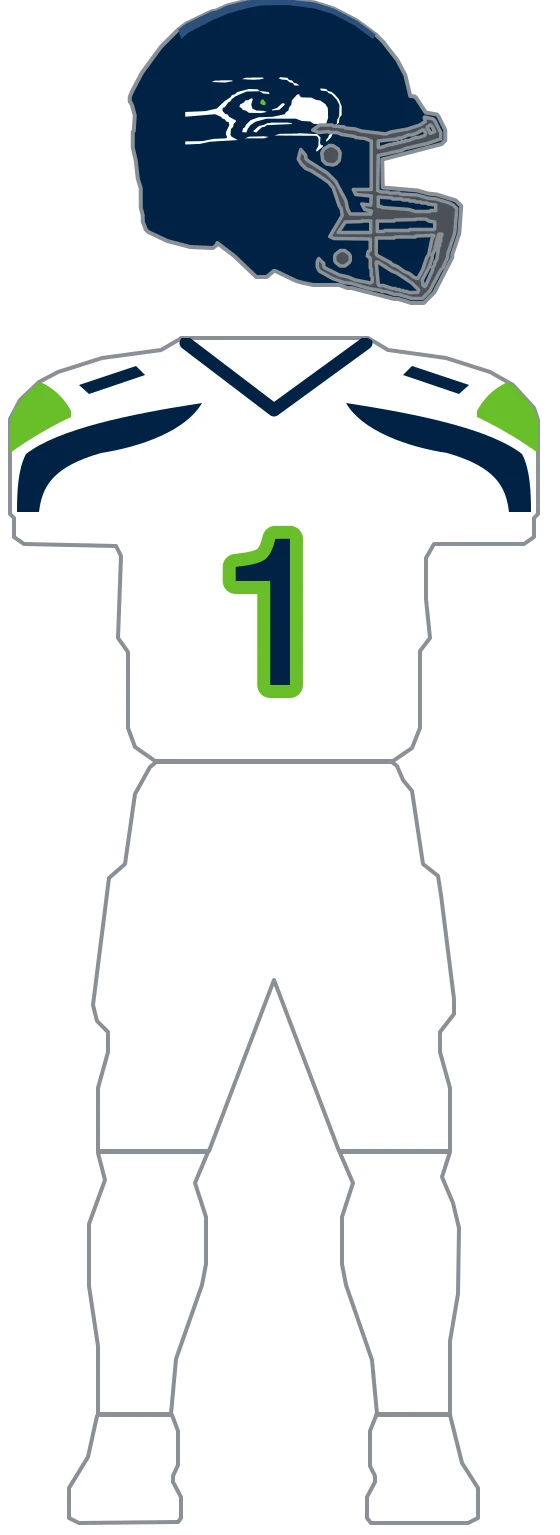
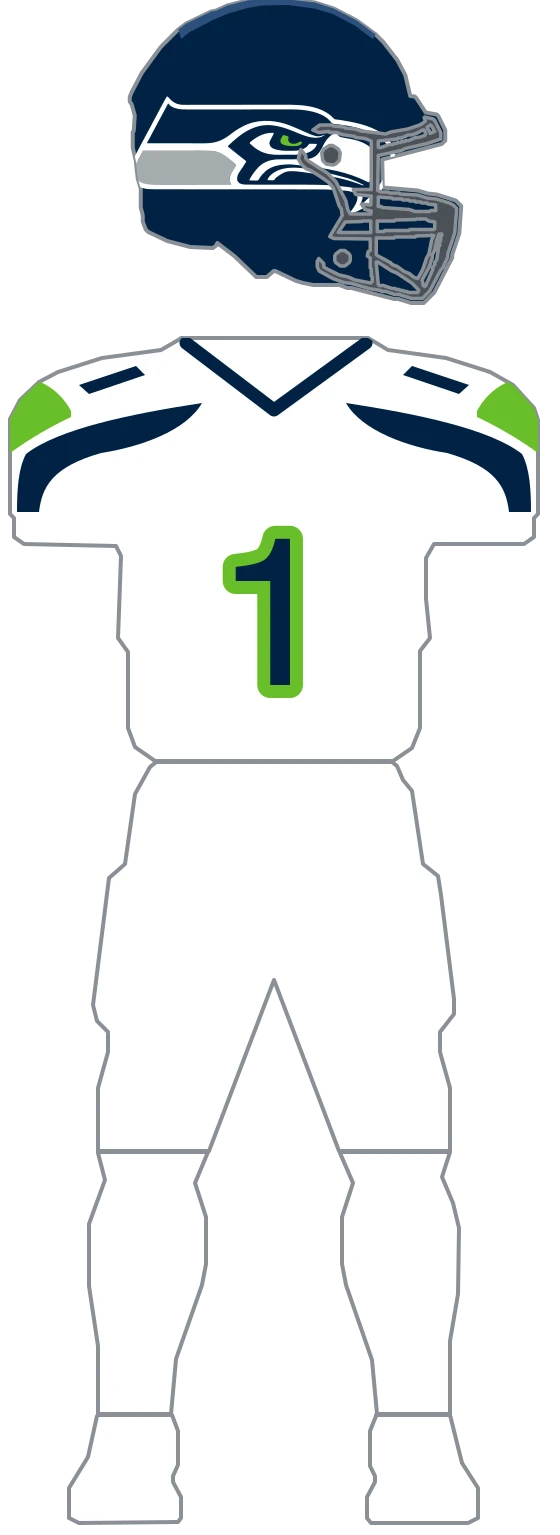
feat(uniforms): re-author the Seahawks helmet decal from a gate-passing reference
The shipped decal was traced off the 46px GUD composite, where the hawk's white
keyline survives as 7 disconnected fragments totalling 31px. At helmet scale it
read as a field of slivers, and it was also placed wrong: half the size the
reference shows, centred instead of running to the rear edge, and missing the
wolf-grey wing entirely.

Re-traced at 1200px (thinnest white channel 20px = 1.67% of mark width; keyline
resolves to one component and holds under a 0.75x downscale), then scaled,
positioned and baked into raw helmet coordinates -- UniformLayer has no
transform field, so placement cannot live anywhere but the path data.

Placement is measured from the GUD helmet composite rather than the logo, which
is a separate failure axis from linework: 80% of shell width, flush to the rear
edge, 32% down, no rotation. A 0/-8/-15 degree sweep against the reference
picked 0 -- the mark reads as angled because of its own swept tail.

Three rasters change (home, away, rivalries -- full variant only; the jersey
crop excludes the helmet). Installed iOS builds fetch by URL and pick this up,
which is intended: accuracy is the bar (Decisions.md 2026-09-03).

Changed region(s): [[0.2429, 0.0306, 0.6679, 0.1531]]

diff --git a/lib/uniforms/teams/seahawks.ts b/lib/uniforms/teams/seahawks.ts
@@ -30,13 +30,32 @@ export const SEAHAWKS_HELMET_CENTER_COLOR = '#2B507C';
 // (Wikimedia `File:Seattle Seahawks logo.svg`, fair use; trademarked). Licence audit: the vault’s
 // Decisions.md, 2026-09-03.
 //
-// Produced by contour-tracing the decal's white keyline (upsampled 10x, Douglas-Peucker simplified)
-// and mapping it into raw helmet coordinates. The keyline is filled white and the shell reads
-// through the counters, which is why no navy backing shape is needed on the navy home/away shells.
+// Re-authored 2026-09-03 from a reference that clears the resolution gate, replacing a trace off
+// the 46px GUD composite whose keyline survived as 7 disconnected fragments totalling 31px. The
+// mark is traced at 1200px wide (thinnest white channel 20px = 1.67% of mark width; keyline
+// resolves to one component and holds under a 0.75x downscale), then scaled, positioned and
+// baked into raw helmet coordinates -- UniformLayer has no transform field, so placement cannot
+// live anywhere but the path data.
+//
+// PLACEMENT is measured from the GUD *helmet* composite, not from the logo, and is a separate
+// concern from linework: 80% of shell width, flush to the rear edge, 32% down, no rotation. The
+// mark reads as angled because of its own swept tail, not because a rotation is applied -- a
+// 0/-8/-15 degree sweep against the reference picked 0. Verified side by side against the helmet
+// reference, which is the acceptance check; matching the logo alone is what made the first pass
+// well-drawn and misplaced.
+//
+// Three layers now, painted grey -> white -> eye. The grey wing was MISSING from the previous
+// decal entirely: only the white channels and the eye were traced, so the mark lost the element
+// the reference puts at the lower rear. The navy body is still not painted -- it merges with the
+// navy shell, which is why the counters read through. That is correct for home and away and is a
+// known gap on the teal rivalries shell, tracked separately.
 export const SEAHAWKS_HELMET_HAWK_PATH =
-  'M439.9,222.4 L454.0,223.5 L457.2,227.5 L464.3,229.2 L467.0,233.6 L472.4,234.8 L478.3,238.7 L470.2,239.2 L467.5,238.1 L465.4,234.2 L458.3,232.5 L453.5,228.0 L442.1,226.9 L436.1,224.1 L439.9,223.0 Z M381.5,223.0 L404.8,223.0 L407.5,224.7 L398.8,226.9 L385.3,227.5 L363.6,226.3 L370.7,223.5 L381.5,223.5 Z M319.8,228.6 L342.5,228.6 L345.8,230.3 L330.1,233.1 L302.5,232.0 L309.5,229.2 L319.8,229.2 Z M520.5,244.8 L531.9,246.0 L535.2,249.9 L542.2,251.6 L549.2,257.2 L557.3,266.7 L562.8,280.7 L562.8,298.1 L558.4,303.7 L557.3,313.8 L553.0,316.6 L551.9,325.6 L548.1,328.4 L541.7,342.4 L533.5,350.8 L531.4,350.8 L532.5,346.3 L535.7,343.5 L537.3,338.5 L542.2,334.5 L549.8,317.7 L553.0,316.0 L554.1,307.1 L557.9,300.3 L558.4,277.9 L553.0,267.3 L542.2,256.1 L536.8,254.4 L533.5,250.5 L522.7,249.3 L520.0,247.7 L520.5,245.4 Z M375.5,246.0 L394.5,246.5 L398.8,249.9 L416.7,252.1 L418.8,256.1 L405.3,254.9 L399.3,250.5 L372.8,251.0 L350.6,260.5 L343.1,266.2 L339.8,271.2 L336.6,272.3 L329.0,282.4 L324.7,284.1 L324.7,290.3 L330.1,295.9 L335.0,297.0 L337.7,301.5 L351.2,308.8 L351.2,311.6 L346.9,315.5 L345.8,321.7 L341.4,326.1 L340.4,337.3 L342.5,341.3 L355.0,348.0 L299.8,351.4 L279.2,355.8 L250.0,357.0 L250.0,350.8 L284.1,350.2 L306.8,345.8 L331.7,344.6 L333.9,342.4 L331.2,336.2 L331.7,331.7 L338.2,318.3 L337.1,312.7 L332.2,311.0 L329.0,306.5 L324.7,305.4 L322.0,302.0 L309.5,296.4 L250.0,301.5 L250.0,291.9 L289.5,290.3 L312.8,285.2 L329.0,270.1 L340.9,262.2 L343.1,258.3 L349.0,256.6 L353.9,252.1 L375.5,246.5 Z M475.1,256.6 L477.8,256.6 L479.4,260.5 L482.7,262.8 L502.2,263.3 L511.9,267.8 L520.0,269.0 L530.3,276.2 L535.2,284.1 L535.7,303.7 L529.7,321.7 L523.8,321.7 L517.8,316.6 L506.5,315.5 L500.0,311.0 L483.2,309.9 L471.3,305.4 L412.3,305.4 L390.1,311.6 L380.4,318.3 L375.0,325.6 L372.3,332.9 L363.6,332.3 L365.8,324.5 L369.6,322.2 L371.2,317.7 L380.9,308.2 L396.6,302.6 L425.3,301.5 L449.1,296.4 L451.3,292.5 L456.2,289.1 L457.8,283.0 L462.1,277.4 L463.2,269.0 L473.5,257.2 L475.1,257.2 Z M381.5,264.5 L385.3,265.6 L382.0,276.8 L384.2,285.2 L392.3,289.1 L406.9,289.7 L413.4,291.9 L401.5,294.2 L377.2,293.6 L371.2,289.1 L365.3,288.0 L362.5,284.1 L358.2,281.8 L359.8,276.8 L367.4,272.9 L370.1,269.0 L375.5,268.4 L381.5,265.0 Z M443.2,274.6 L448.0,274.6 L449.1,277.4 L438.3,287.5 L423.7,289.1 L424.2,286.9 L433.4,284.1 L443.2,275.1 Z M421.0,313.2 L455.6,313.2 L462.7,314.4 L463.7,316.0 L413.4,318.3 L408.5,321.7 L402.6,322.8 L392.3,332.9 L386.4,331.7 L386.9,329.5 L397.2,320.0 L407.5,317.7 L414.0,314.4 L421.0,313.8 Z M476.2,334.5 L514.1,336.2 L520.5,343.0 L519.5,354.2 L521.6,358.1 L525.4,358.7 L524.9,361.5 L513.5,371.0 L511.9,370.4 L511.9,367.6 L516.2,360.3 L516.8,346.9 L515.1,341.8 L511.3,339.6 L428.6,339.0 L438.3,335.7 L476.2,335.1 Z M404.2,340.2 L416.7,341.8 L408.5,344.6 L369.6,344.6 L377.7,341.3 L404.2,340.7 Z';
+  'M213.3,260.8C214.8,261.1 215.3,261.4 216.3,262.6C223.6,271.3 230.8,276.3 242.3,277.5C245.7,277.7 249.1,277.7 252.5,277.7C253.4,277.7 254.3,277.7 255.2,277.7C257.7,277.7 260.2,277.7 262.7,277.6C265.3,277.6 268.0,277.6 270.7,277.6C275.4,277.6 280.0,277.6 284.7,277.6C291.4,277.6 298.1,277.6 304.9,277.6C308.0,277.6 311.2,277.6 314.3,277.6C314.6,277.6 314.9,277.6 315.3,277.6C322.8,277.6 330.3,277.6 337.7,277.6C337.9,277.6 337.9,277.6 338.7,277.6C344.4,277.6 350.0,277.6 355.7,277.6C360.3,277.6 364.9,277.5 369.6,277.5C369.9,277.5 370.2,277.5 370.5,277.5C378.0,277.5 385.5,277.5 392.9,277.5C393.2,277.5 393.6,277.5 393.9,277.5C397.0,277.5 400.2,277.5 403.3,277.5C410.0,277.5 416.8,277.5 423.5,277.5C428.4,277.5 433.3,277.5 438.2,277.5C440.9,277.5 443.5,277.5 446.2,277.5C455.6,277.4 464.9,277.4 474.3,278.0C474.6,278.0 474.9,278.0 475.3,278.0C492.5,279.0 510.1,281.8 525.8,289.5C526.0,289.6 526.3,289.8 526.6,289.9C533.7,293.4 540.7,298.0 545.9,304.0C547.7,306.0 549.2,306.8 551.9,307.0C552.7,307.1 553.5,307.2 554.2,307.3C554.7,307.3 555.1,307.4 555.6,307.4C558.7,307.8 561.8,308.3 565.0,308.8C565.3,308.9 565.7,308.9 566.0,309.0C595.3,313.8 629.3,321.1 651.7,341.6C652.1,342.0 652.6,342.4 653.0,342.8C663.3,352.6 668.8,365.5 669.4,379.7C670.0,410.3 651.8,437.9 632.3,460.1C632.0,460.4 631.7,460.8 631.4,461.1C628.7,464.2 625.8,467.1 622.9,470.0C622.8,470.1 622.8,470.1 622.2,470.8C618.7,474.3 615.1,477.6 611.1,480.4C610.7,480.7 610.3,481.0 609.9,481.3C600.5,488.4 590.5,493.2 578.8,494.6C579.8,492.6 581.0,490.9 582.4,489.2C587.5,482.4 594.4,472.2 594.4,463.4C594.4,462.9 594.4,462.3 594.4,461.7C594.1,458.9 592.9,457.0 590.7,455.2C580.8,448.3 561.7,449.1 550.0,448.1C549.6,448.0 549.2,448.0 548.7,448.0C547.5,447.8 546.3,447.7 545.1,447.6C544.9,447.6 544.9,447.6 544.0,447.6C535.5,446.9 526.9,446.8 518.3,446.8C516.6,446.8 514.8,446.8 513.0,446.8C509.9,446.8 506.8,446.8 503.7,446.8C499.1,446.8 494.4,446.8 489.8,446.8C482.0,446.8 474.3,446.7 466.5,446.7C455.4,446.7 444.3,446.7 433.1,446.7C428.7,446.7 424.2,446.7 419.7,446.7C419.5,446.7 419.5,446.7 418.2,446.7C406.4,446.7 394.6,446.7 382.8,446.7C382.6,446.7 382.6,446.7 381.3,446.7C369.2,446.7 357.2,446.7 345.2,446.6C344.7,446.6 344.1,446.6 343.6,446.6C341.0,446.6 338.4,446.6 335.8,446.6C335.3,446.6 334.7,446.6 334.2,446.6C333.2,446.6 332.1,446.6 331.1,446.6C313.9,446.6 296.6,446.6 279.4,446.6C277.0,446.6 274.5,446.6 272.1,446.6C271.6,446.6 271.2,446.6 270.7,446.6C263.0,446.6 255.3,446.6 247.6,446.6C239.8,446.6 232.1,446.6 224.4,446.5C219.8,446.5 215.2,446.5 210.6,446.5C207.5,446.5 204.5,446.5 201.4,446.5C199.6,446.5 197.9,446.5 196.1,446.5C174.5,446.5 174.5,446.5 165.5,444.2C165.2,444.1 165.0,444.0 164.7,444.0C155.5,441.6 148.3,436.7 143.4,428.4C138.5,419.7 138.1,410.9 140.7,401.4C142.7,394.5 145.6,387.9 148.7,381.4C148.8,381.2 148.8,381.2 149.3,380.3C151.5,375.7 153.8,371.3 156.2,366.9C158.3,363.1 160.3,359.3 162.3,355.5C164.8,350.9 167.3,346.2 169.7,341.6C172.1,337.2 174.5,332.8 176.8,328.4C179.4,323.5 182.0,318.5 184.7,313.6C186.1,310.9 187.6,308.1 189.1,305.4C189.2,305.1 189.4,304.8 189.6,304.5C190.2,303.2 190.9,302.0 191.5,300.8C193.7,296.7 195.9,292.6 198.1,288.5C199.7,285.7 201.2,282.9 202.6,280.0C204.4,276.5 206.3,273.1 208.1,269.7C208.3,269.3 208.5,268.9 208.8,268.5C210.2,265.9 211.7,263.3 213.3,260.8ZM215.5,275.4C215.3,275.8 215.0,276.2 214.8,276.6C207.7,290.1 207.7,290.1 204.9,295.2C202.6,299.3 200.4,303.5 198.2,307.6C195.8,312.2 193.4,316.7 191.0,321.2C189.0,324.7 187.1,328.3 185.2,331.8C182.8,336.4 180.4,340.9 178.0,345.5C177.7,346.0 177.4,346.4 177.2,346.9C176.9,347.4 176.7,347.8 176.5,348.3C176.4,348.4 176.4,348.4 175.8,349.4C175.4,350.2 175.0,350.9 174.5,351.6C173.9,352.7 173.9,352.7 173.9,354.5C189.6,354.5 205.2,354.5 220.9,354.5C222.7,354.5 224.6,354.5 226.4,354.5C226.8,354.5 227.2,354.5 227.6,354.5C233.5,354.5 239.5,354.5 245.4,354.5C251.5,354.5 257.7,354.5 263.8,354.6C267.6,354.6 271.3,354.6 275.1,354.6C277.7,354.6 280.3,354.6 282.9,354.6C284.4,354.6 285.9,354.6 287.4,354.6C308.9,354.6 322.5,350.4 339.6,337.3C347.5,331.2 355.9,325.4 364.9,320.9C365.2,320.7 365.5,320.5 365.8,320.4C391.7,306.9 422.3,307.2 449.7,315.6C460.2,318.9 470.2,323.4 480.2,327.8C513.6,342.7 513.6,342.7 528.3,337.6C528.5,337.6 528.5,337.6 529.3,337.2C525.1,341.7 518.6,343.2 512.6,343.5C499.3,343.7 487.5,339.2 475.4,334.2C472.6,333.1 469.8,331.9 467.1,330.8C466.8,330.7 466.5,330.6 466.1,330.4C445.0,321.9 421.4,314.6 398.5,320.0C398.3,320.0 398.3,320.0 397.3,320.3C391.3,321.7 385.5,323.9 379.9,326.6C379.5,326.8 379.2,326.9 378.8,327.1C370.3,331.2 362.5,336.6 355.1,342.5C354.8,342.8 354.4,343.1 354.0,343.4C347.6,348.4 341.5,354.0 335.7,359.8C335.7,360.4 335.7,360.9 335.7,361.5C336.6,362.4 337.4,363.0 338.3,363.7C338.9,364.2 339.5,364.6 340.1,365.0C340.4,365.2 340.7,365.5 341.0,365.7C342.5,366.9 343.9,368.1 345.4,369.3C347.6,371.1 349.8,372.8 352.0,374.6C354.3,376.3 356.5,378.1 358.7,379.9C363.0,383.4 367.4,386.9 371.9,390.3C371.6,391.8 371.0,392.9 370.2,394.2C369.9,394.6 369.6,395.1 369.3,395.5C369.0,396.0 368.7,396.4 368.4,396.9C368.1,397.4 367.8,397.9 367.5,398.4C365.8,401.1 364.0,403.7 362.3,406.3C362.2,406.4 362.2,406.4 361.7,407.1C360.9,408.4 360.0,409.7 359.1,410.9C355.3,416.7 353.3,420.9 353.8,427.8C354.5,430.6 356.4,432.8 358.7,434.5C363.7,437.3 369.7,437.3 375.3,437.2C375.9,437.2 376.6,437.2 377.2,437.2C378.9,437.3 380.6,437.3 382.3,437.2C384.2,437.2 386.1,437.3 387.9,437.3C391.2,437.3 394.4,437.3 397.6,437.3C402.3,437.3 407.0,437.3 411.6,437.3C419.3,437.3 426.9,437.3 434.5,437.3C435.0,437.3 435.4,437.3 435.9,437.3C439.1,437.3 442.4,437.3 445.6,437.3C449.2,437.3 452.9,437.4 456.6,437.4C457.0,437.4 457.5,437.4 457.9,437.4C465.5,437.4 473.1,437.4 480.7,437.4C484.9,437.4 489.2,437.4 493.4,437.4C521.5,437.4 549.2,438.2 577.0,442.3C577.9,442.4 578.7,442.5 579.5,442.7C587.4,443.8 596.7,445.4 602.0,452.0C604.8,456.3 605.0,461.1 604.2,466.1C603.3,469.6 601.8,472.7 600.0,475.8C599.5,476.6 599.1,477.4 598.7,478.2C598.8,478.5 599.0,478.8 599.1,479.1C602.0,477.1 604.7,475.0 607.3,472.6C608.2,471.8 609.1,471.0 610.0,470.2C612.3,468.2 614.5,466.1 616.6,463.9C617.0,463.5 617.4,463.1 617.8,462.7C620.1,460.4 622.2,458.1 624.3,455.7C624.7,455.3 625.1,454.8 625.4,454.4C629.1,450.1 632.5,445.6 635.8,441.1C636.0,440.8 636.2,440.5 636.5,440.2C649.9,421.9 663.3,399.2 660.1,375.7C658.2,362.8 651.1,352.0 640.7,344.2C617.6,327.7 586.3,320.5 558.5,317.1C558.1,317.1 557.6,317.0 557.2,316.9C555.0,316.7 552.8,316.4 550.7,316.2C549.9,316.1 549.1,316.0 548.3,315.9C547.9,315.9 547.6,315.8 547.2,315.8C543.9,315.4 542.3,313.5 540.4,310.9C526.6,294.3 501.3,289.5 481.1,287.6C474.2,286.9 467.2,286.8 460.2,286.8C459.3,286.8 458.4,286.8 457.4,286.8C454.9,286.8 452.4,286.8 449.9,286.8C447.1,286.8 444.4,286.8 441.7,286.8C437.0,286.8 432.2,286.8 427.5,286.8C420.4,286.8 413.2,286.8 406.1,286.8C403.2,286.8 400.3,286.8 397.5,286.8C397.1,286.8 396.8,286.8 396.5,286.8C388.9,286.8 381.3,286.9 373.7,286.9C373.4,286.9 373.1,286.9 372.7,286.9C365.0,286.9 357.3,286.9 349.5,286.9C349.2,286.9 348.9,286.9 348.5,286.9C346.8,286.9 345.2,286.9 343.5,286.9C343.1,286.9 342.8,286.9 342.5,286.9C341.8,286.9 341.1,286.9 340.5,286.9C329.4,286.9 318.3,286.9 307.2,286.9C305.7,286.9 304.1,286.9 302.5,286.9C302.2,286.9 301.9,286.9 301.6,286.9C296.6,286.9 291.7,286.9 286.8,286.9C281.8,286.9 276.8,286.9 271.8,286.9C269.1,286.9 266.4,286.9 263.8,286.9C261.3,286.9 258.8,286.9 256.4,286.9C255.5,286.9 254.6,286.9 253.7,286.9C242.1,287.0 229.0,286.4 219.4,278.9C218.7,278.0 218.0,277.0 217.3,276.0C217.2,275.9 217.2,275.9 216.8,275.4C216.4,275.4 215.9,275.4 215.5,275.4ZM165.5,369.5C164.7,371.1 163.8,372.6 163.0,374.2C162.7,374.6 162.5,375.0 162.2,375.5C145.6,406.0 145.6,406.0 149.1,418.9C151.3,425.2 154.8,429.6 160.7,432.7C168.3,436.3 176.6,436.7 184.9,436.9C185.3,436.9 185.6,436.9 186.0,437.0C193.2,437.2 200.5,437.2 207.7,437.2C209.5,437.2 211.3,437.2 213.2,437.2C216.3,437.2 219.4,437.2 222.5,437.2C227.0,437.2 231.5,437.2 236.0,437.2C243.3,437.2 250.7,437.2 258.0,437.2C265.1,437.2 272.2,437.1 279.3,437.1C279.7,437.1 280.2,437.1 280.6,437.1C282.8,437.1 285.0,437.1 287.2,437.1C305.4,437.1 323.7,437.1 341.9,437.1C341.9,435.4 341.2,434.5 340.3,433.0C338.5,429.4 338.2,426.4 339.1,422.5C341.0,416.4 344.5,410.8 347.8,405.4C348.0,405.2 348.0,405.2 348.6,404.2C349.1,403.5 349.5,402.7 350.0,402.0C350.2,401.6 350.5,401.3 350.7,400.9C350.8,400.8 350.8,400.8 351.2,400.0C351.7,398.8 351.6,398.1 351.2,396.9C350.3,396.0 349.4,395.2 348.4,394.4C348.1,394.2 347.9,394.0 347.6,393.7C345.2,391.8 342.8,389.8 340.4,388.0C339.0,386.9 337.7,385.9 336.4,384.8C324.7,375.3 315.2,370.2 299.8,369.7C299.7,369.7 299.7,369.7 298.9,369.7C292.3,369.5 285.8,369.4 279.2,369.4C277.9,369.4 276.7,369.4 275.4,369.4C272.8,369.4 270.1,369.4 267.4,369.4C263.6,369.5 259.7,369.5 255.9,369.5C249.6,369.5 243.4,369.5 237.1,369.5C231.1,369.5 225.0,369.5 219.0,369.5C218.6,369.5 218.2,369.5 217.8,369.5C215.9,369.5 214.1,369.5 212.2,369.5C196.6,369.5 181.1,369.5 165.5,369.5ZM558.9,330.6C558.4,331.8 557.7,332.8 556.9,333.8C556.0,335.0 555.8,335.5 555.5,337.1C555.9,339.0 556.4,339.6 558.0,340.8C561.4,342.8 565.3,343.2 569.1,343.8C589.0,347.0 612.8,352.0 625.7,368.9C632.0,378.6 633.5,389.2 631.4,400.4C629.6,408.8 626.5,416.5 622.7,424.2C622.5,424.6 622.3,425.0 622.1,425.4C620.8,427.9 619.3,430.3 617.7,432.7C616.0,432.4 614.7,431.9 613.1,431.2C612.7,431.0 612.2,430.7 611.8,430.5C611.3,430.3 610.8,430.0 610.3,429.8C576.6,413.4 539.3,404.0 461.5,396.8C461.0,396.8 460.6,396.8 460.2,396.8C442.6,396.8 423.5,398.6 409.9,411.0C409.7,411.2 409.5,411.4 409.3,411.7C405.7,414.9 402.7,418.5 399.8,422.4C399.7,422.6 399.7,422.6 399.1,423.3C398.5,424.3 398.5,424.3 397.9,425.5C397.2,426.9 396.6,427.7 395.4,428.7C392.5,429.5 389.5,429.1 386.5,429.0C385.7,429.0 384.9,429.0 384.1,428.9C382.1,428.9 380.1,428.8 378.1,428.7C378.5,427.0 379.3,425.6 380.1,424.1C380.3,423.8 380.5,423.5 380.6,423.3C384.9,416.0 389.9,409.2 395.8,403.1C396.1,402.8 396.3,402.5 396.6,402.2C406.5,391.7 421.1,387.1 435.2,386.7C436.7,386.7 438.2,386.7 439.7,386.7C440.6,386.7 441.5,386.7 442.3,386.7C443.2,386.7 444.2,386.6 445.1,386.6C447.0,386.6 449.0,386.6 450.9,386.6C456.4,386.6 461.9,386.6 467.4,386.6C470.4,386.5 473.5,386.5 476.5,386.5C478.1,386.5 479.7,386.5 481.3,386.5C493.5,386.5 504.9,386.3 514.1,377.3C519.3,371.9 522.9,365.1 526.2,358.4C532.5,345.7 541.9,335.8 555.5,331.0C557.1,330.6 557.1,330.6 558.9,330.6ZM423.6,333.7C424.0,333.7 424.3,333.7 424.7,333.7C425.5,333.7 426.4,333.7 427.2,333.7C426.9,335.6 426.2,337.1 425.3,338.8C425.0,339.3 424.7,339.9 424.4,340.4C423.9,341.3 423.5,342.2 423.0,343.0C417.7,353.0 417.7,353.0 419.1,358.1C420.3,361.3 422.3,363.2 425.3,364.8C430.7,367.3 436.7,368.4 442.7,369.1C442.8,369.1 442.8,369.1 443.7,369.2C448.5,369.6 453.2,369.6 458.0,369.6C459.5,369.6 461.0,369.6 462.5,369.6C473.4,369.7 485.1,368.7 493.6,361.0C494.9,359.6 496.0,358.2 497.1,356.7C497.9,355.8 497.9,355.8 499.2,355.4C500.1,355.4 500.1,355.4 501.2,355.5C503.7,355.8 506.2,355.8 508.8,355.8C509.2,355.8 509.7,355.8 510.1,355.8C511.2,355.8 512.3,355.8 513.4,355.8C512.4,361.2 508.1,365.8 503.8,368.9C493.6,375.6 482.0,377.5 470.0,377.5C469.5,377.5 469.1,377.5 468.6,377.5C467.1,377.5 465.6,377.5 464.1,377.5C463.0,377.5 462.0,377.5 460.9,377.5C458.7,377.5 456.5,377.5 454.3,377.5C451.4,377.5 448.6,377.5 445.8,377.5C443.6,377.6 441.4,377.6 439.2,377.6C438.2,377.6 437.2,377.6 436.1,377.6C414.7,377.6 398.2,372.9 382.4,357.8C381.3,356.8 380.2,355.8 379.0,354.9C379.1,353.5 379.3,352.8 380.3,351.8C381.7,350.7 383.0,349.7 384.3,348.7C384.5,348.5 384.8,348.4 385.0,348.2C396.1,339.8 409.5,333.5 423.6,333.7ZM575.3,424.4C576.1,424.7 576.9,425.0 577.8,425.3C588.0,428.9 598.1,433.1 607.5,438.4C605.9,439.0 605.0,438.7 603.4,438.1C602.9,437.9 602.4,437.8 601.9,437.6C601.4,437.4 600.8,437.2 600.3,437.0C599.2,436.6 598.0,436.2 596.9,435.7C596.6,435.6 596.3,435.5 596.0,435.4C574.0,427.4 551.0,422.1 528.0,418.6C527.7,418.5 527.3,418.5 527.0,418.4C454.9,407.2 454.9,407.2 434.9,420.8C430.2,424.3 430.2,424.3 429.5,426.0C428.9,427.0 428.6,427.6 427.6,428.3C425.4,428.7 423.1,428.6 420.9,428.5C420.2,428.5 419.6,428.4 419.0,428.4C417.4,428.4 415.9,428.3 414.4,428.3C415.8,421.9 422.9,416.0 428.1,412.6C458.1,394.0 508.0,406.3 575.3,424.4Z';
+// The wolf-grey wing at the lower rear of the mark, under the white keyline.
+export const SEAHAWKS_HELMET_HAWK_GREY_PATH =
+  'M167.7,369.4C168.2,369.4 168.7,369.4 169.2,369.4C169.4,369.4 169.4,369.4 170.8,369.4C171.3,369.4 171.9,369.4 172.4,369.4C174.0,369.4 175.5,369.4 177.0,369.4C178.7,369.4 180.4,369.4 182.0,369.4C185.3,369.4 188.5,369.4 191.8,369.4C194.4,369.4 197.1,369.4 199.7,369.4C199.9,369.4 199.9,369.4 200.8,369.4C201.6,369.4 202.4,369.4 203.1,369.4C210.3,369.4 217.5,369.4 224.7,369.4C230.8,369.4 237.0,369.4 243.1,369.4C250.3,369.4 257.4,369.4 264.6,369.4C265.3,369.4 266.1,369.4 266.9,369.4C267.0,369.4 267.0,369.4 268.0,369.4C270.6,369.4 273.3,369.4 275.9,369.4C279.1,369.4 282.3,369.4 285.6,369.4C287.2,369.4 288.8,369.4 290.5,369.4C306.6,369.4 318.8,370.7 331.7,381.0C332.2,381.4 332.8,381.8 333.3,382.2C336.3,384.6 339.3,387.0 342.3,389.4C344.6,391.3 346.9,393.1 349.2,394.9C350.2,395.7 351.2,396.5 352.0,397.3C351.9,399.3 351.0,400.7 350.0,402.3C349.9,402.6 349.7,402.8 349.6,403.1C349.2,403.7 348.9,404.2 348.6,404.8C347.7,406.2 346.8,407.7 346.0,409.1C345.8,409.4 345.6,409.7 345.5,410.0C337.8,423.1 337.8,423.1 338.8,428.7C339.4,430.9 340.3,432.8 341.5,434.7C342.3,435.8 342.3,435.8 342.3,437.1C322.1,437.1 301.9,437.2 281.7,437.2C279.3,437.2 276.9,437.2 274.5,437.2C274.0,437.2 273.6,437.2 273.1,437.2C265.4,437.2 257.7,437.2 250.0,437.2C242.1,437.2 234.2,437.2 226.3,437.2C221.5,437.2 216.6,437.2 211.7,437.2C208.4,437.2 205.0,437.2 201.7,437.2C199.8,437.2 197.8,437.2 195.9,437.2C164.0,437.3 164.0,437.3 154.4,428.3C150.1,423.8 148.1,418.0 148.1,411.9C148.2,408.3 149.0,405.1 150.0,401.8C150.2,401.2 150.4,400.7 150.5,400.1C153.3,391.4 157.9,383.2 162.1,375.2C162.3,374.7 162.6,374.2 162.8,373.7C162.9,373.5 162.9,373.5 163.5,372.4C163.7,372.1 163.9,371.7 164.1,371.3C165.1,369.5 165.8,369.4 167.7,369.4Z';
 export const SEAHAWKS_HELMET_HAWK_EYE_PATH =
-  'M403.1,266.7 L406.4,267.3 L411.2,274.0 L410.2,277.9 L406.4,278.5 L400.4,275.7 L400.4,270.6 L403.1,267.3 Z';
+  'M445.7,338.1C448.3,338.4 450.6,338.9 453.0,339.8C453.3,339.9 453.6,340.0 454.0,340.1C456.2,341.0 456.2,341.0 456.8,342.1C456.8,343.0 456.8,343.0 456.4,344.4C455.7,346.8 455.6,348.8 456.9,351.0C458.8,353.4 460.9,354.7 463.9,355.4C470.0,356.0 474.3,354.9 479.3,351.2C480.8,350.8 482.0,351.6 483.3,352.3C483.3,353.7 483.1,354.6 482.2,355.7C479.1,358.7 474.8,360.0 470.5,360.2C470.3,360.2 470.3,360.2 469.3,360.3C460.9,360.4 449.8,360.3 442.7,355.4C440.8,353.4 440.3,352.1 440.3,349.5C440.8,345.3 443.4,341.5 445.7,338.1Z';
 
 // The shoulder sweep, shared by the home and away kits: a band tapering to a point near the
 // sternum, arcing up over the shoulder and running down the outer sleeve to the hem (y≈557, just
@@ -137,6 +156,14 @@ function shoulderLayers(band: ColorRef, cap: ColorRef): UniformLayer[] {
 // excluded: that era used an entirely different mark, so it gets its stacked bands and no decal.
 function hawkLayers(keyline: ColorRef, eye: ColorRef): UniformLayer[] {
   return [
+    {
+      id: 'seahawks-helmet-hawk-grey',
+      surface: 'helmet',
+      d: SEAHAWKS_HELMET_HAWK_GREY_PATH,
+      clip: true,
+      kind: 'fill',
+      fill: SEAHAWKS_WOLF_GREY,
+    },
     {
       id: 'seahawks-helmet-hawk',
       surface: 'helmet',

diff --git a/lib/uniforms/teams/seahawks.parts.ts b/lib/uniforms/teams/seahawks.parts.ts
@@ -28,6 +28,7 @@ import {
   SEAHAWKS_1976_SLEEVE_WHITE_LEFT,
   SEAHAWKS_1976_SLEEVE_WHITE_RIGHT,
   SEAHAWKS_HELMET_HAWK_EYE_PATH,
+  SEAHAWKS_HELMET_HAWK_GREY_PATH,
   SEAHAWKS_HELMET_HAWK_PATH,
   SEAHAWKS_SHOULDER_BAND_LEFT,
   SEAHAWKS_SHOULDER_BAND_RIGHT,
@@ -57,10 +58,12 @@ const fill = (id: string, surface: UniformSurface, d: string, color: string): Pa
   fill: color,
 });
 
-// The modern decal: a white keyline whose counters let the shell read through, plus the eye.
-// There is no navy backing shape, which is why the mark only works on a shell it contrasts with.
+// The modern decal: the wolf-grey wing, then a white keyline whose counters let the shell read
+// through, then the eye. There is no navy backing shape, which is why the mark only works on a
+// shell it contrasts with. Geometry and placement rationale live in seahawks.ts.
 function hawk(eye: string): PartLayer[] {
   return [
+    fill('seahawks-helmet-hawk-grey', 'helmet', SEAHAWKS_HELMET_HAWK_GREY_PATH, 'wolfGrey'),
     fill('seahawks-helmet-hawk', 'helmet', SEAHAWKS_HELMET_HAWK_PATH, 'white'),
     fill('seahawks-helmet-hawk-eye', 'helmet', SEAHAWKS_HELMET_HAWK_EYE_PATH, eye),
   ];

diff --git a/lib/uniforms/teams/definitions.test.ts b/lib/uniforms/teams/definitions.test.ts
@@ -89,6 +89,8 @@ describe('team uniform definitions', () => {
     // What the kit paints is unchanged — parts-parity.test.ts holds the rasters byte-identical.
     expect(layerIds?.filter((id) => id.startsWith('seahawks-'))).toEqual([
       'seahawks-helmet-center-stripe',
+      // Grey wing paints under the keyline; it was missing from the pre-2026-09-03 decal.
+      'seahawks-helmet-hawk-grey',
       'seahawks-helmet-hawk',
       'seahawks-helmet-hawk-eye',
       'seahawks-shoulder-bar-left',
